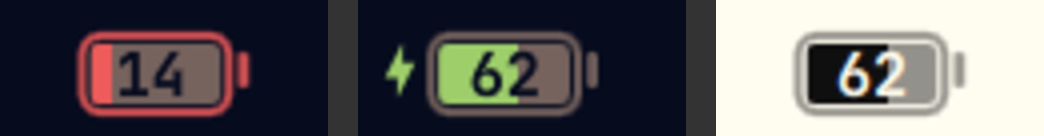
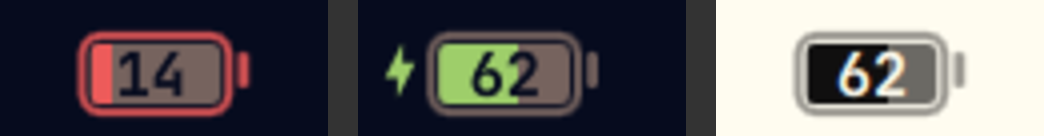
Copy and contrast polish from re-review
- manifest descriptions drop "system stats" (the polling is gone)
- Remove two more battery-phrase strings
- Track opacity adapts to bar luminance so bg-colored digits keep
  contrast on light themes
- README softens the settings-inheritance claim; preview light-state
  re-shot with the darker track

Generated with [Devin](https://devin.ai)

Changed region(s): [[0.8276, 0.3235, 0.9195, 0.7647]]

diff --git a/Panel.qml b/Panel.qml
@@ -125,8 +125,6 @@ Panel {
     "Burning electrons",
     "Sipping juice",
     "Spending coulombs",
-    "Bleeding amps",
-    "Guzzling volts",
     "Munching reserves"
   ]
   property int phraseIndex: 0
@@ -564,9 +562,12 @@ Panel {
       readonly property color rimColor: root.lowBattery
         ? Qt.rgba(Commons.Color.urgent.r, Commons.Color.urgent.g, Commons.Color.urgent.b, 0.85)
         : Qt.rgba(fg.r, fg.g, fg.b, 0.42)
-      // Track is tinted strongly enough that the single bg-colored digit
-      // row keeps contrast over the unfilled part on light and dark bars.
-      readonly property color trackColor: Qt.rgba(fg.r, fg.g, fg.b, 0.45)
+      // Track darkness follows the bar background so the bg-colored digits
+      // keep contrast over the unfilled part on light and dark bars alike.
+      readonly property color trackColor: {
+        var lum = 0.2126 * bg.r + 0.7152 * bg.g + 0.0722 * bg.b
+        return Qt.rgba(fg.r, fg.g, fg.b, lum > 0.5 ? 0.62 : 0.45)
+      }
       readonly property color glyphColor: root.charging || root.fullyCharged ? root.chargingGreen : Commons.Color.accent
 
       SequentialAnimation on opacity {

diff --git a/README.md b/README.md
@@ -40,7 +40,7 @@ Restores the built-in `omarchy.power` widget.
 ## Notes
 
 - Declares `omarchy.clonedFrom: "omarchy.power"` — takes the built-in
-  widget's bar slot and keeps its settings; nothing to move manually
+  widget's bar slot; nothing to move manually
 - In-icon mode on horizontal bars; vertical bars fall back to the glyph
 - Hidden on systems without a battery
 
